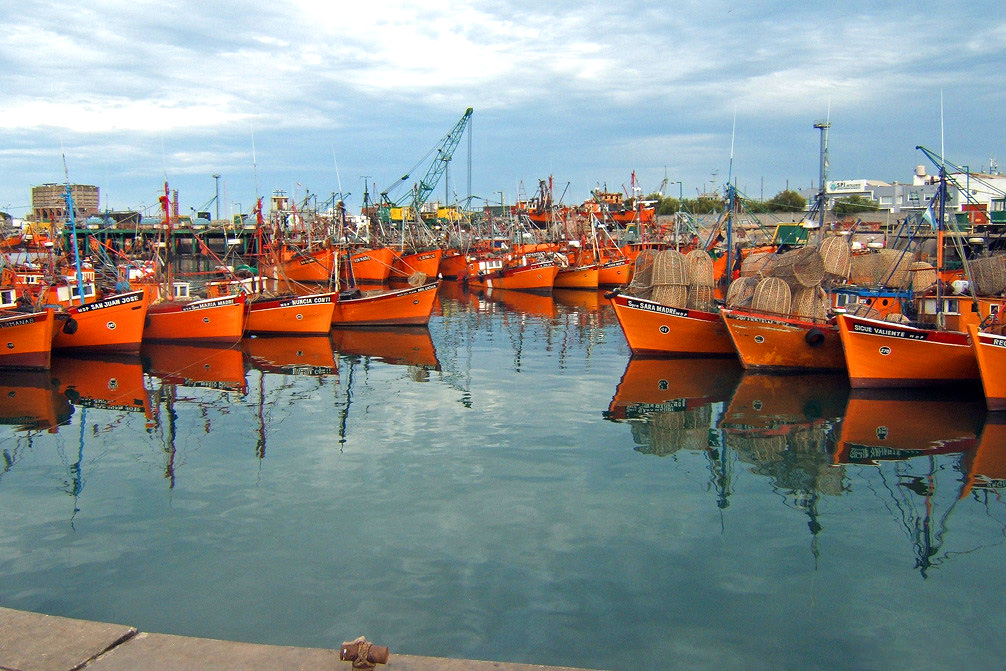
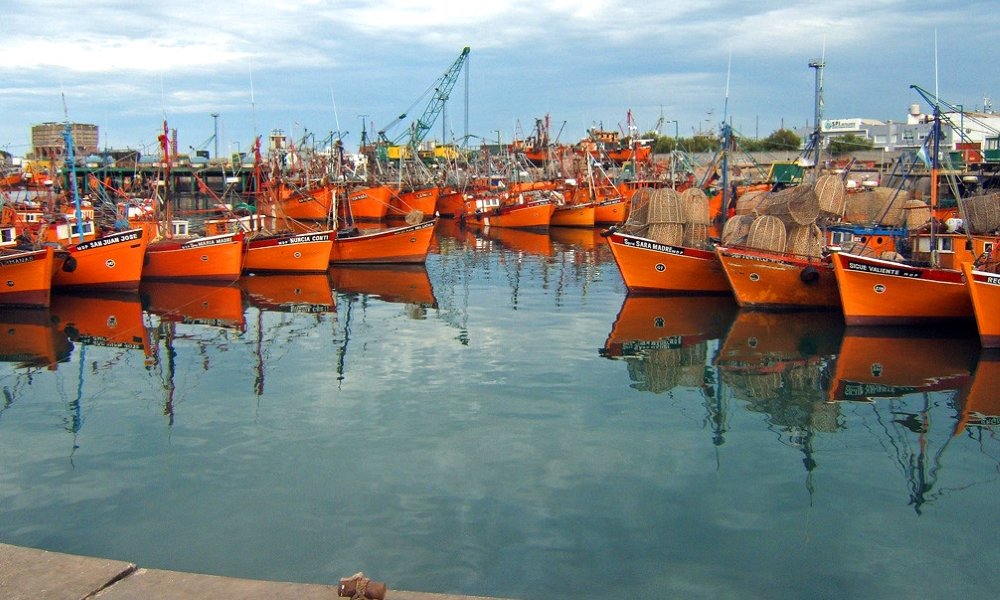
Arreglo resolucion imagenes index. Agregado seccion informacion util

diff --git a/index.html b/index.html
@@ -35,66 +35,67 @@
 
     <main>
         <section class="sec_1">
+
             <div class="slideshow-container">
 
                 <div class="mySlides fade">
                     <div class="numbertext">1 / 10</div>
-                    <img src="resources/img/mardelplata/mardel02.jpg" style="width:100%">
-                    <div class="text">Ciudad de Mar del Plata</div>
-                </div>
-
-                <div class="mySlides fade">
-                    <div class="numbertext">2 / 10</div>
-                    <img src="resources/img/mardelplata/espigon1.jpg" style="width:100%">
-                    <div class="text">Restaurant Quilmes</div>
-                </div>
-
-                <div class="mySlides fade">
-                    <div class="numbertext">3 / 10</div>
                     <img src="resources/img/mardelplata/mardel01.jpg" style="width:100%">
                     <div class="text">Ciudad de Mar del Plata</div>
                 </div>
 
                 <div class="mySlides fade">
-                    <div class="numbertext">4 / 10</div>
+                    <div class="numbertext">2 / 10</div>
                     <img src="resources/img/mardelplata/puerto2.jpg" style="width:100%">
-                    <div class="text">Puerto Mar del Plata</div>
-                </div> 
-
-                <div class="mySlides fade">
-                    <div class="numbertext">5 / 10</div>
-                    <img src="resources/img/mardelplata/escollera2.jpg" style="width:100%">
-                    <div class="text">Escollera Norte</div>
-                </div> 
-
-                <div class="mySlides fade">
-                    <div class="numbertext">6 / 10</div>
-                    <img src="resources/img/mardelplata/torreon1.webp" style="width:100%">
-                    <div class="text">Torreon Mar del Plata</div>
+                    <div class="text">Puerto de Mar del Plata</div>
                 </div>
 
                 <div class="mySlides fade">
-                    <div class="numbertext">7 / 10</div>
+                    <div class="numbertext">3 / 10</div>
+                    <img src="resources/img/mardelplata/club-pesca2.jpg" style="width:100%">
+                    <div class="text">Escollera y Restaurant Club de Pesca</div>
+                </div>
+
+                <div class="mySlides fade">
+                    <div class="numbertext">4 / 10</div>
                     <img src="resources/img/mardelplata/lobo marino.jpeg" style="width:100%">
                     <div class="text">Monumento al Lobo Marino</div>
                 </div>
 
                 <div class="mySlides fade">
+                    <div class="numbertext">5 / 10</div>
+                    <img src="resources/img/mardelplata/mardel02.jpg" style="width:100%">
+                    <div class="text">Ciudad de Mar del Plata</div>
+                </div>
+
+                <div class="mySlides fade">
+                    <div class="numbertext">6 / 10</div>
+                    <img src="resources/img/mardelplata/torreon3.jpg" style="width:100%">
+                    <div class="text">Torreon de Mar del Plata</div>
+                </div>
+
+                <div class="mySlides fade">
+                    <div class="numbertext">7 / 10</div>
+                    <img src="resources/img/mardelplata/puerto3.jpg" style="width:100%">
+                    <div class="text">Puerto de Mar del Plata</div>
+                </div>
+
+                <div class="mySlides fade">
                     <div class="numbertext">8 / 10</div>
-                    <img src="resources/img/mardelplata/casino.jpg" style="width:100%">
-                    <div class="text">Casino Mar del Plata</div>
-                </div> 
+                    <img src="resources/img/mardelplata/escollera2.jpg" style="width:100%">
+                    <div class="text">Escollera Norte</div>
+                </div>
 
                 <div class="mySlides fade">
                     <div class="numbertext">9 / 10</div>
-                    <img src="resources/img/mardelplata/puerto1.jpg" style="width:100%">
-                    <div class="text">Puerto Mar del Plata</div>
+                    <img src="resources/img/mardelplata/casino.jpg" style="width:100%">
+                    <div class="text">Casino de Mar del Plata</div>
                 </div>
 
                 <div class="mySlides fade">
                     <div class="numbertext">10 / 10</div>
-                    <img src="resources/img/mardelplata/puerto3.jpg" style="width:100%">
-                    <div class="text">Puerto Mar del Plata</div>
+                    <img src="resources/img/mardelplata/mardel03.jpg" style="width:100%">
+                    <div class="text">Atardecer en Mar del Plata</div>
                 </div>
 
                 <a class="prev" onclick="plusSlides(-1)">❮</a>
@@ -115,6 +116,34 @@
                 <span class="dot" onclick="currentSlide(9)"></span>
                 <span class="dot" onclick="currentSlide(10)"></span>
             </div>
+
+        </section>
+
+        <section class="info-container">
+            
+            <div class="info-titulo">
+                <h3 class="fa-solid">Informacion de utilidad</h3>
+            </div>
+
+            <div class="info-item titulo">
+                <i class="fa-solid fa-location-dot"> Como llegar</i>
+            </div>
+
+            <div class="info-item titulo">
+                <i class="fa-solid fa-phone"> Telefonos utiles</i>
+            </div>
+
+            <div class="info-item titulo">
+                <i class="fa-solid fa-book"> Historia</i>
+            </div>
+
+            <div class="info-item txt">El Partido de General Pueyrredon, cuya ciudad cabecera es Mar del Plata, tiene
+                múltiples formas de acceso</div>
+
+            <div class="info-item txt">Estos telefonos pueden resultarte de utilidad para realizar consultas o ante alguna
+                emegencia</div>
+            <div class="info-item txt">Conoce la historia de nuestra ciudad, sus origenes y su desarrollo hasta la época
+                actual</div>
 
         </section>
     </main>

diff --git a/css/index.css b/css/index.css
@@ -1,52 +1,52 @@
-*{
-    margin: 0;
-    padding: 0;
-    font-family: 'Prompt', sans-serif;
-  }
+* {
+  margin: 0;
+  padding: 0;
+  font-family: 'Prompt', sans-serif;
+}
 
 /* Add a black background color to the top navigation */
 .topnav {
-    background-color: #57a9f7;
-    overflow: hidden;
-    padding: 20px;
-  }
-  
-  /* Style the title link inside the navigation bar */
-.title{
-    float: left;
-    display: block;
-    color: white;
-    text-align: center;
-    padding: 14px 16px;
-    text-decoration: none;
-    font-size: 25px;
-  }
+  background-color: #57a9f7;
+  overflow: hidden;
+  padding: 20px;
+}
 
-  /* Style the links inside the navigation bar */
+/* Style the title link inside the navigation bar */
+.title {
+  float: left;
+  display: block;
+  color: white;
+  text-align: center;
+  padding: 14px 16px;
+  text-decoration: none;
+  font-size: 25px;
+}
+
+/* Style the links inside the navigation bar */
 .topnav .sub-title {
-    float: right;
-    display: block;
-    color: #ffffff;
-    text-align: center;
-    padding: 14px 16px;
-    text-decoration: none;
-    font-size: 25px;
-  }
+  float: right;
+  display: block;
+  color: #ffffff;
+  text-align: center;
+  padding: 14px 16px;
+  text-decoration: none;
+  font-size: 25px;
+}
 
 /* Estilo link activo en el menu */
-.topnav .activo{
+.topnav .activo {
   text-decoration: underline;
-  color:antiquewhite;
+  color: antiquewhite;
 }
-  
+
 /* Change the color of links on hover */
 .topnav a:hover {
-    background-color: #ddd;
-    color: black;
-  }
+  background-color: #ddd;
+  color: black;
+}
 
 /* Header */
-.encabezado{
+.encabezado {
   display: block;
 }
 
@@ -67,7 +67,7 @@
   transform: translate(-50%, -50%);
   color: white;
   text-shadow: 2px 0 #000, -2px 0 #000, 0 2px #000, 0 -2px #000,
-  1px 1px #000, -1px -1px #000, 1px -1px #000, -1px 1px #000;
+    1px 1px #000, -1px -1px #000, 1px -1px #000, -1px 1px #000;
   font-size: 2.5rem;
   font-weight: bold;
 }
@@ -82,26 +82,56 @@
   margin-top: 5px;   
 } */
 
-.sec_1{
+.sec_1 {
   padding: 10px;
 }
 
-.card1{
-  background-color:lightgrey;
+.info-container {
+  display: grid;
+  grid-template-columns: repeat(3, 1fr);
+  grid-template-rows: auto;
+  grid-gap: 4%;
+  padding: 10px;
+}
+
+.info-container > div {
+  text-align: center;
+  padding: 20px 0;
+  font-size: 30px;
+}
+
+.info-titulo {
+  grid-column: 1 / 4;
+  color: #57a9f7;
+  text-shadow: 2px 0 #000, -2px 0 #000, 0 2px #000, 0 -2px #000,
+  1px 1px #000, -1px -1px #000, 1px -1px #000, -1px 1px #000;
+}
+
+.info-item.titulo{
+  background-color:#57a9f7;
+}
+
+.info-item.txt{
+  border-color: #57a9f7;
+  font-size: x-large;
+}
+
+.card1 {
+  background-color: lightgrey;
   width: 30vw;
   justify-content: center;
   padding: 20px;
 }
 
-.card2{
-  background-color:lightgrey;
+.card2 {
+  background-color: lightgrey;
   justify-content: center;
   padding: 20px;
 
 }
 
 /* Footer */
-.pie{
+.pie {
   display: flex;
   background-color: #57a9f7;
   padding: 20px;
@@ -109,21 +139,21 @@
   justify-content: space-between;
 }
 
-.pie-item{
+.pie-item {
   color: white;
 }
 
 /* hover iconos Font Awesome redes sociales */
-.fa-brands:hover{
+.fa-brands:hover {
   color: blue;
 }
 
-.footer{
+.footer {
   /* SOLUCION PARA PONER EL FOOTER ABAJO */
-    /* position: fixed; */
-    left: 0;
-    bottom: 0;
-    width: 100%;
+  /* position: fixed; */
+  left: 0;
+  bottom: 0;
+  width: 100%;
 }
 
 /* Google Fonts Montserrat */

diff --git a/css/slidershow.css b/css/slidershow.css
@@ -35,7 +35,9 @@
   /* Caption text */
   .text {
     color: #f2f2f2;
-    font-size: 15px;
+    font-size: large;
+    text-shadow: 2px 0 #000, -2px 0 #000, 0 2px #000, 0 -2px #000,
+    1px 1px #000, -1px -1px #000, 1px -1px #000, -1px 1px #000;
     padding: 8px 12px;
     position: absolute;
     bottom: 8px;
